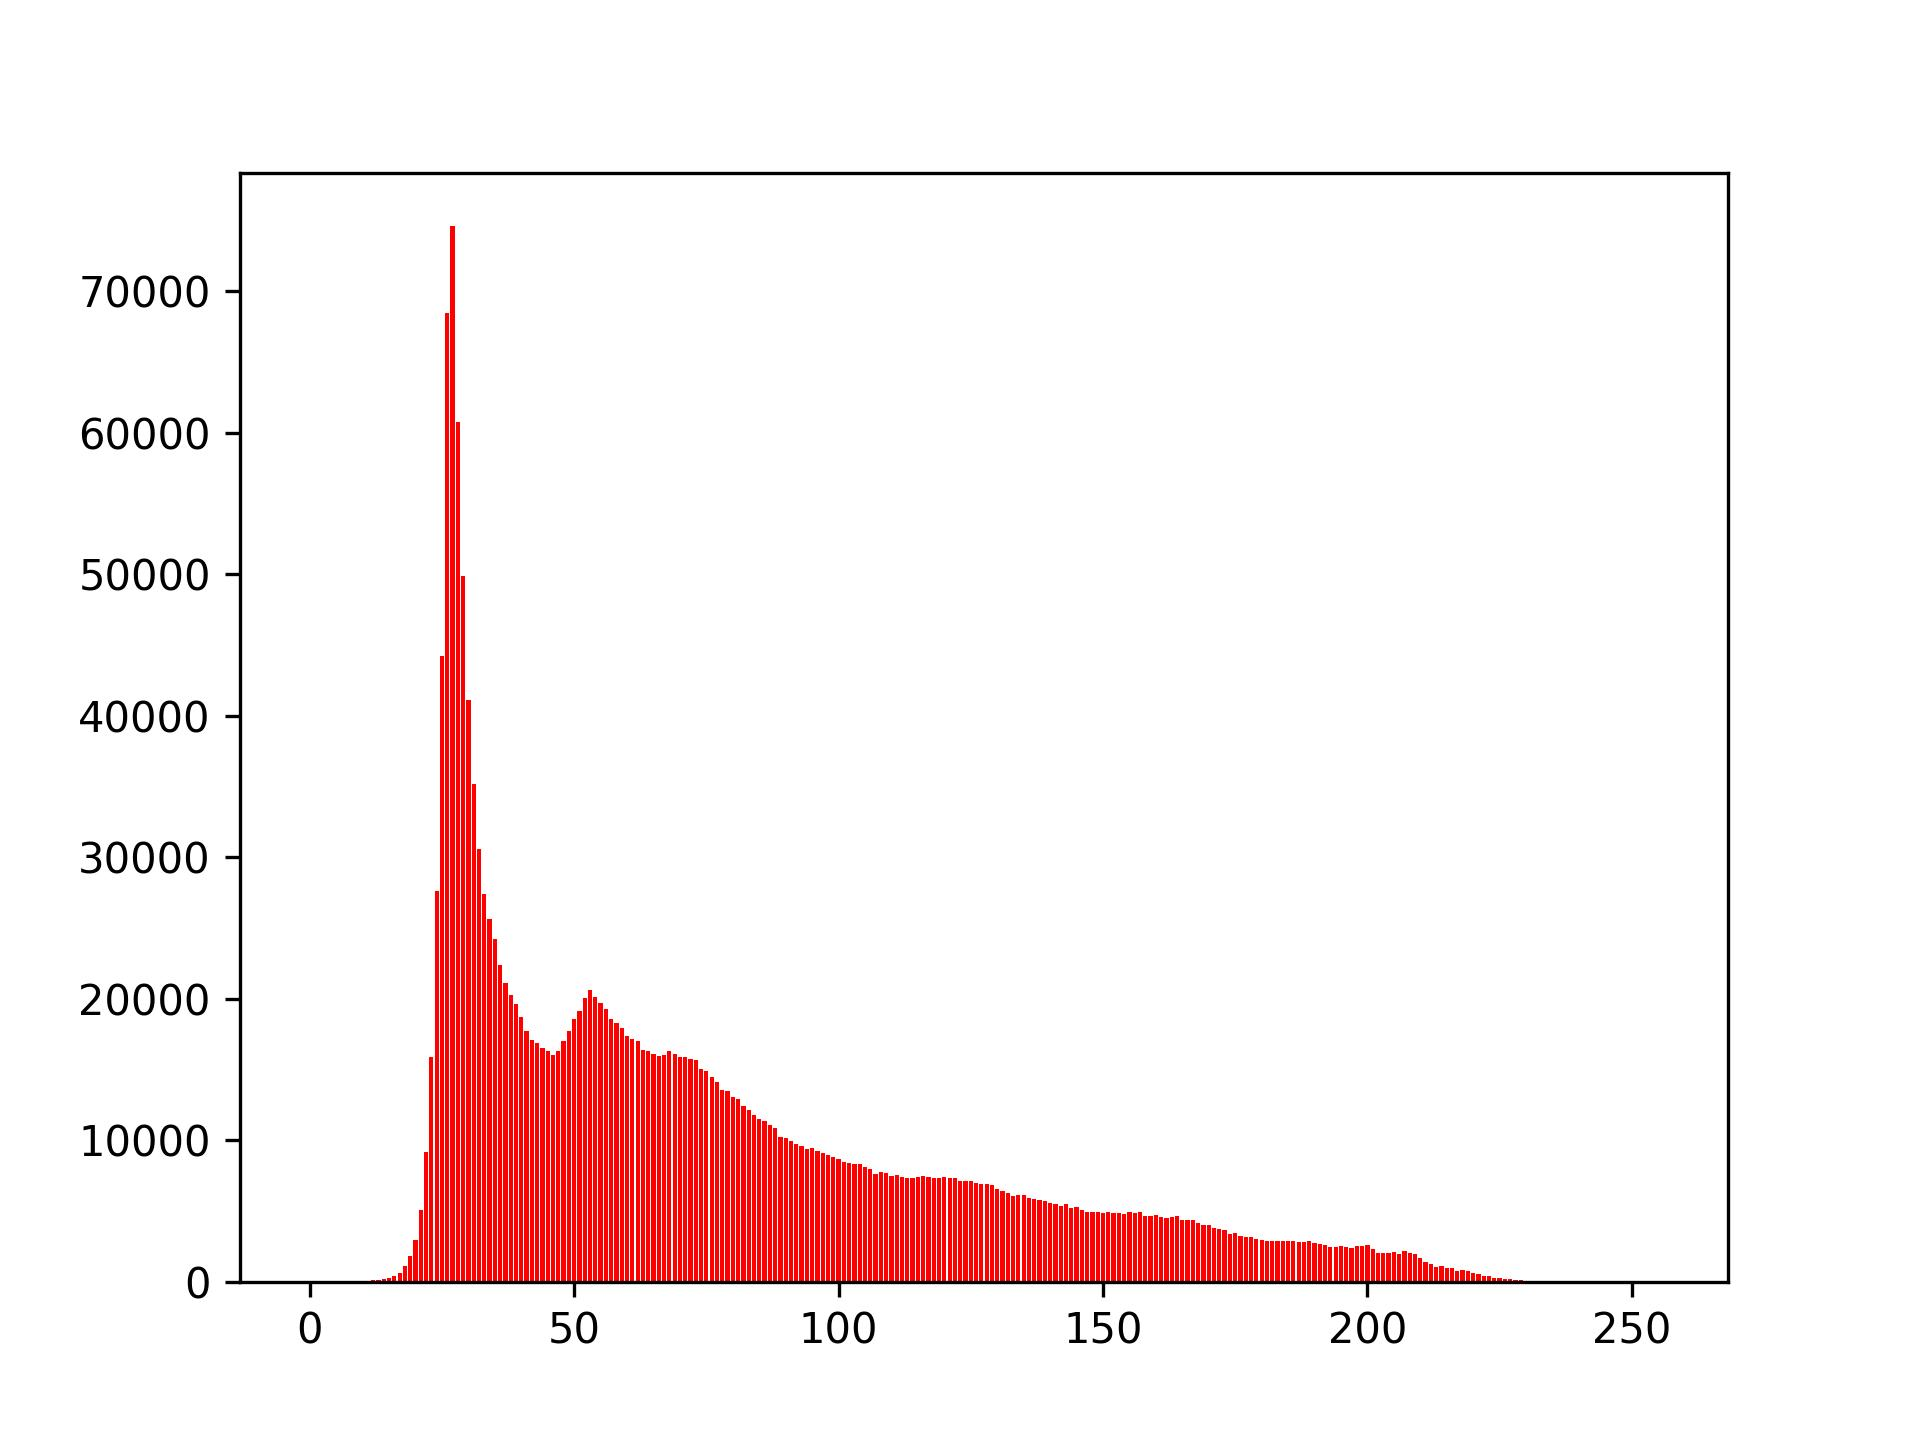
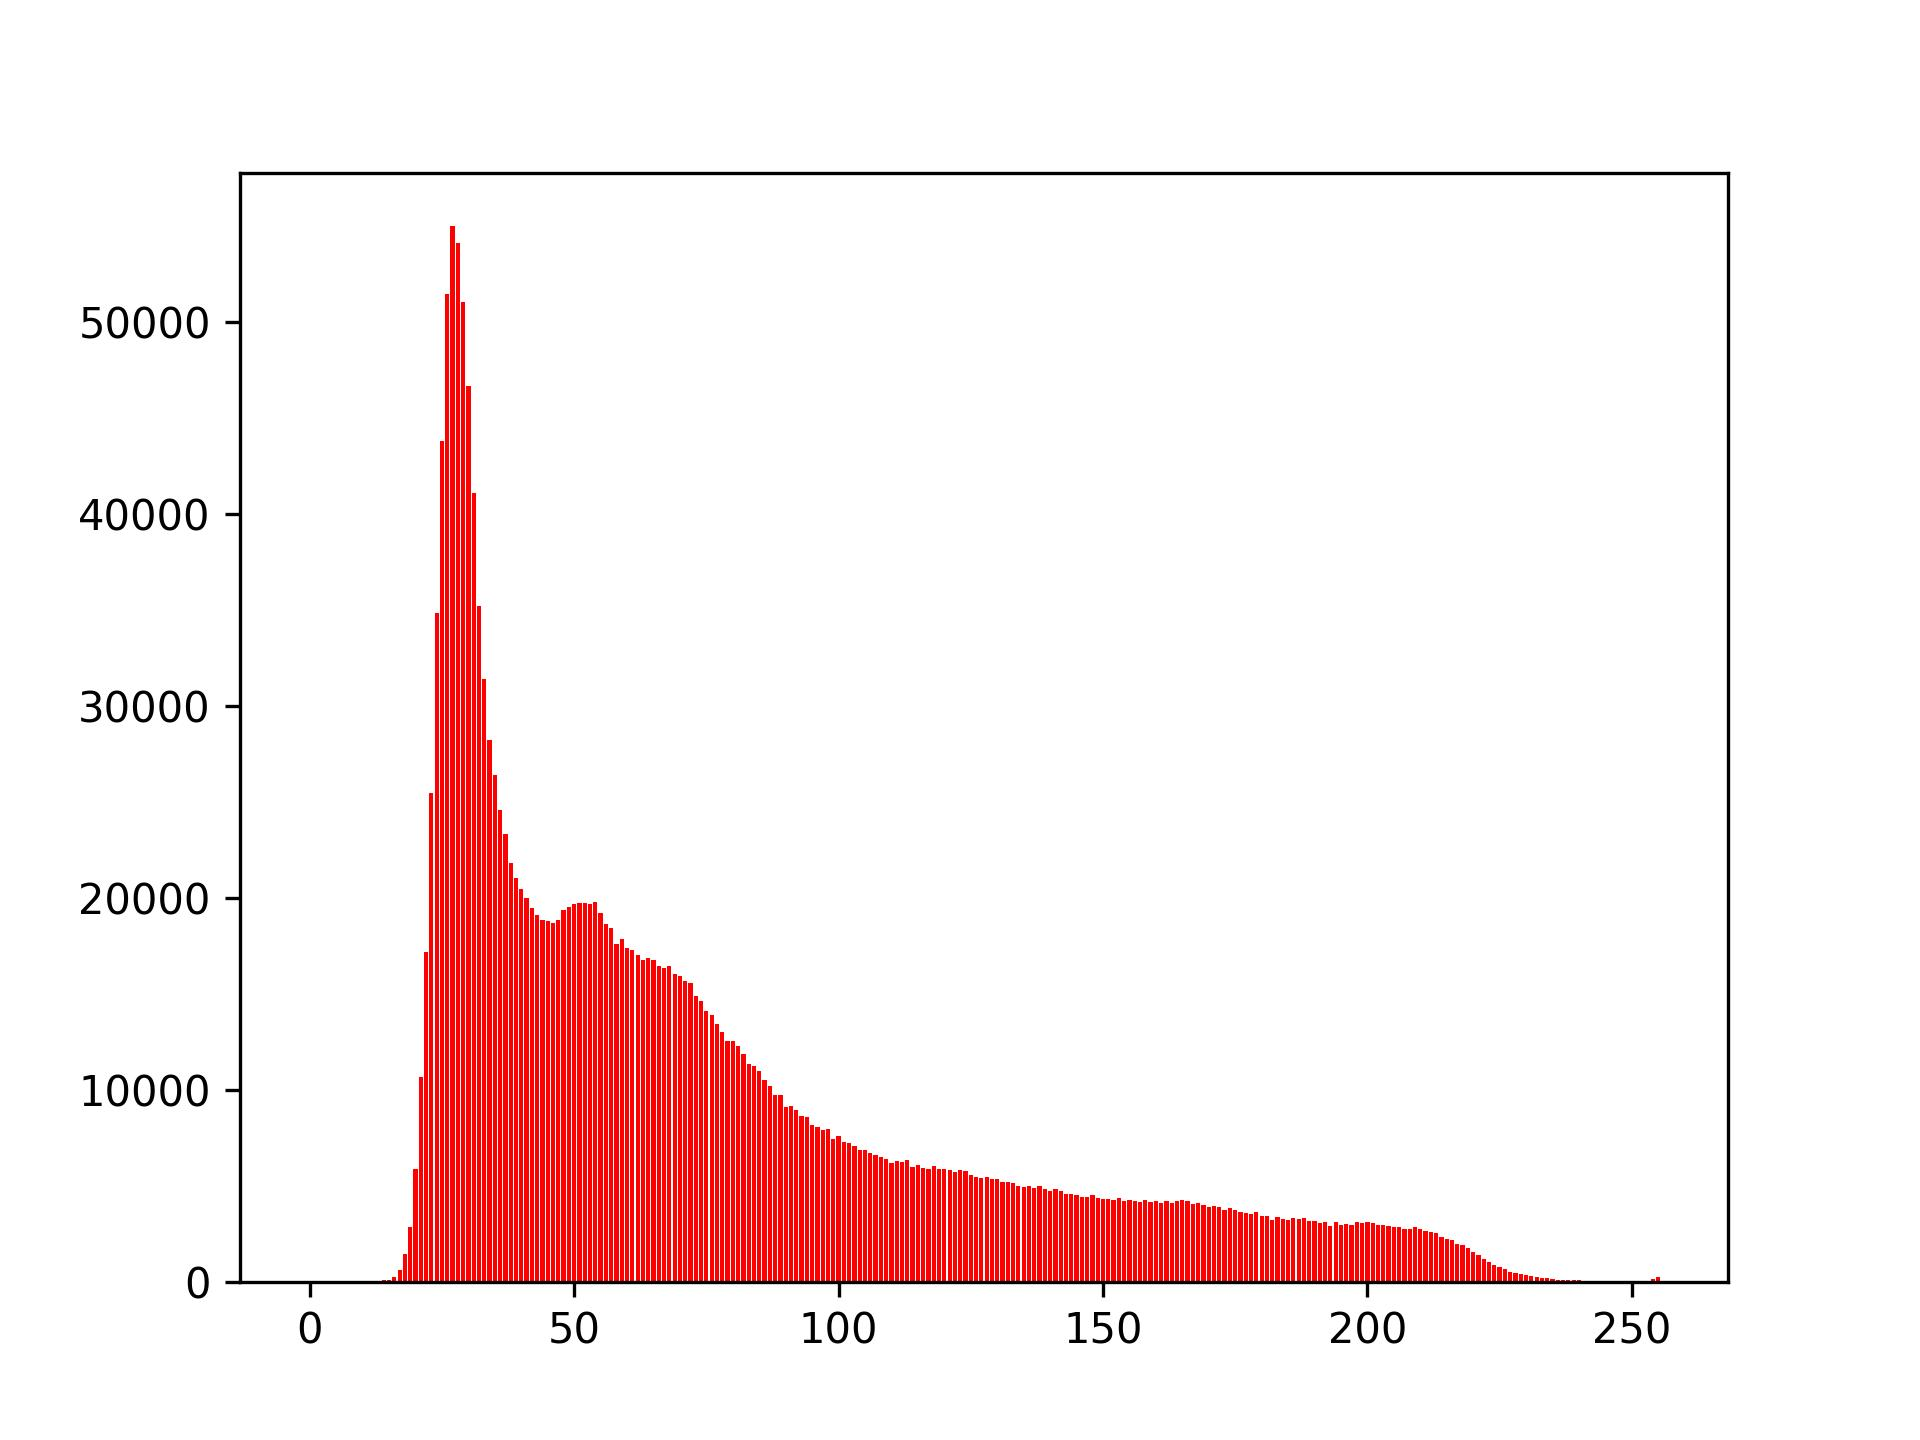
add segmentation

diff --git a/templates/processing.html b/templates/processing.html
@@ -189,6 +189,18 @@
                 <input type="hidden" name="image" value="{{ image_name }}">
             </form>
         </div>
+
+        <div class="col-lg-6">
+            <h4>segmentation</h4>
+
+            <!-- Move Left Form -->
+            <form id="form-segmentation" action="{{ url_for('thresholding') }}" method="POST" enctype="multipart/form-data">
+                <input type="number" name="lower_thres" placeholder="0-255" required>
+                <input type="number" name="upper_thres" placeholder="0-255" required>
+                <button class="btn btn-lg btn-success" type="submit" name="mode" value="Thresholing">Thresholding</button>
+                <input type="hidden" name="image" value="{{ image_name }}">
+            </form>
+        </div>
         
     </div>
 

diff --git a/app.py b/app.py
@@ -63,27 +63,6 @@ def upload():
     return render_template("processing.html", image_name=filename)
 
 
-# rotate filename the specified degrees
-@app.route("/rotate", methods=["POST"])
-def rotate():
-    # retrieve parameters from html form
-    angle = request.form['angle']
-    filename = request.form['image']
-
-    # open and process image
-    target = os.path.join(APP_ROOT, 'static/images')
-    destination = "/".join([target, filename])
-
-    img = Image.open(destination)
-    img = img.rotate(-1*int(angle))
-
-    # save and return image
-    destination = "/".join([target, 'temp.png'])
-    if os.path.isfile(destination):
-        os.remove(destination)
-    img.save(destination)
-
-    return send_image('temp.png')
 
 
 # retrieve file from 'static/images' directory
@@ -97,7 +76,7 @@ def equalization():
     filename = request.form['image']
     Image_Processing.histogram_equalizer()
     processing_thread = threading.Thread(
-        target=Image_Processing.generate_histogram('static/images/img_now.jpg', 'static/images'))
+        target=Image_Processing.both_histogram('static/images/img_now.jpg'))
     processing_thread.start()
 
     # Wait for the processing thread to finish
@@ -276,7 +255,7 @@ def histogram_specification():
 
         # Start a thread to process the image (if needed)
         processing_thread = threading.Thread(
-            target=Image_Processing.generate_histogram('static/images/img_now.jpg', 'static/images'))
+        target=Image_Processing.both_histogram('static/images/img_now.jpg'))
         processing_thread.start()
         processing_thread.join()
 
@@ -395,6 +374,24 @@ def brightness_division():
     processing_thread.start()
     processing_thread.join()
     return render_template("processing.html", image_name=image_name)
+
+
+@app.route("/thresholding", methods=["POST"])
+def thresholding():
+    image_name = request.form['image']
+    
+    lower_thres = int(request.form['lower_thres'])
+    upper_thres = int(request.form['upper_thres'])
+    Image_Processing.threshold(lower_thres, upper_thres)
+    processing_thread = threading.Thread(
+        target=lambda: Image_Processing.both_histogram('static/images/img_now.jpg'))
+    processing_thread.start()
+    processing_thread.join()
+    
+    return render_template("processing.html", image_name=image_name)
+
+
+
 
 
 if __name__ == "__main__":

diff --git a/Image_Processing.py b/Image_Processing.py
@@ -370,3 +370,24 @@ def brightness_division():
     new_arr = img_arr.astype('uint8')
     new_img = Image.fromarray(new_arr)
     new_img.save("static/images/img_now.jpg")
+
+
+def threshold(lower_thres, upper_thres):
+    # Load the image
+    img = Image.open("static/images/img_now.jpg")
+
+    # Convert the image to a NumPy array
+    img_arr = np.array(img)
+
+    # Create a condition for pixels within the specified threshold range
+    condition = np.logical_and(np.greater_equal(img_arr, lower_thres),
+                               np.less_equal(img_arr, upper_thres))
+
+    # Replace pixel values outside the threshold range with 255
+    img_arr[~condition] = 255
+
+    # Create a new PIL Image from the modified NumPy array
+    new_img = Image.fromarray(img_arr)
+
+    # Save the new image
+    new_img.save("static/images/img_now.jpg")
